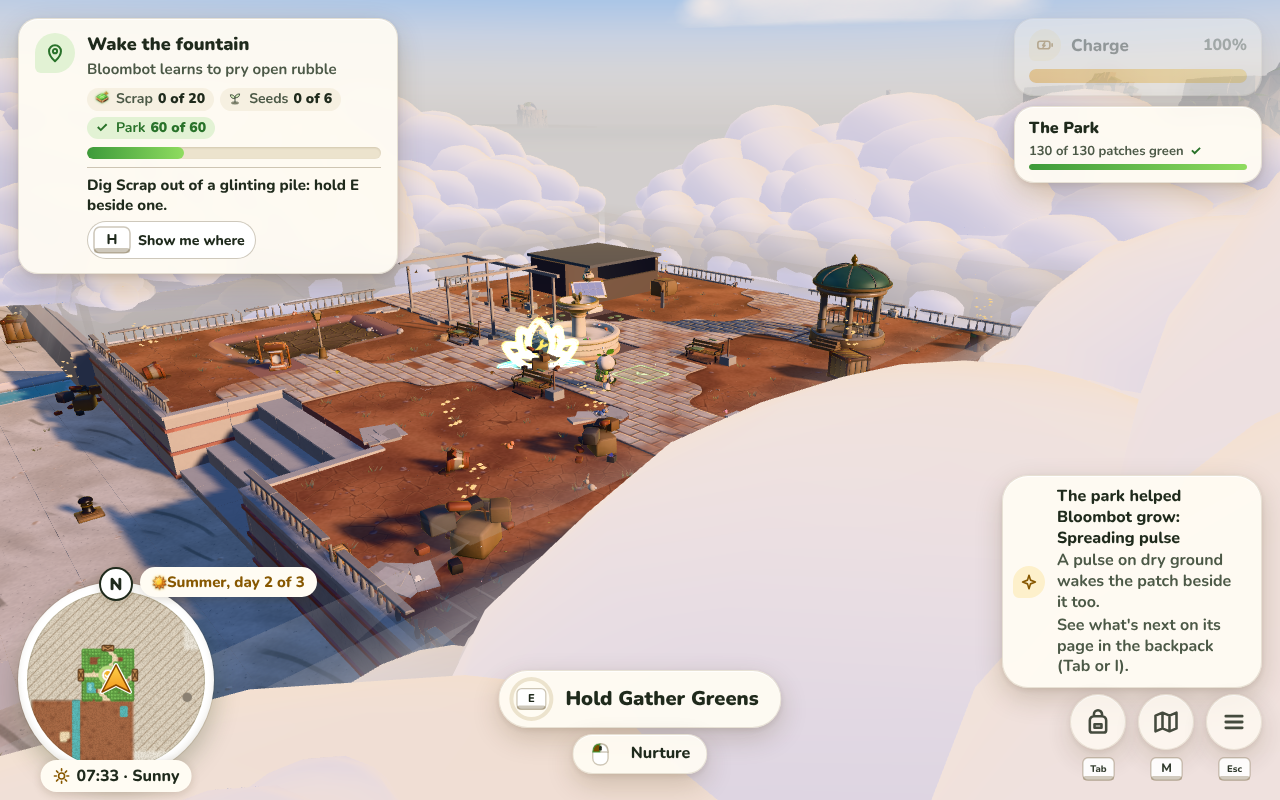
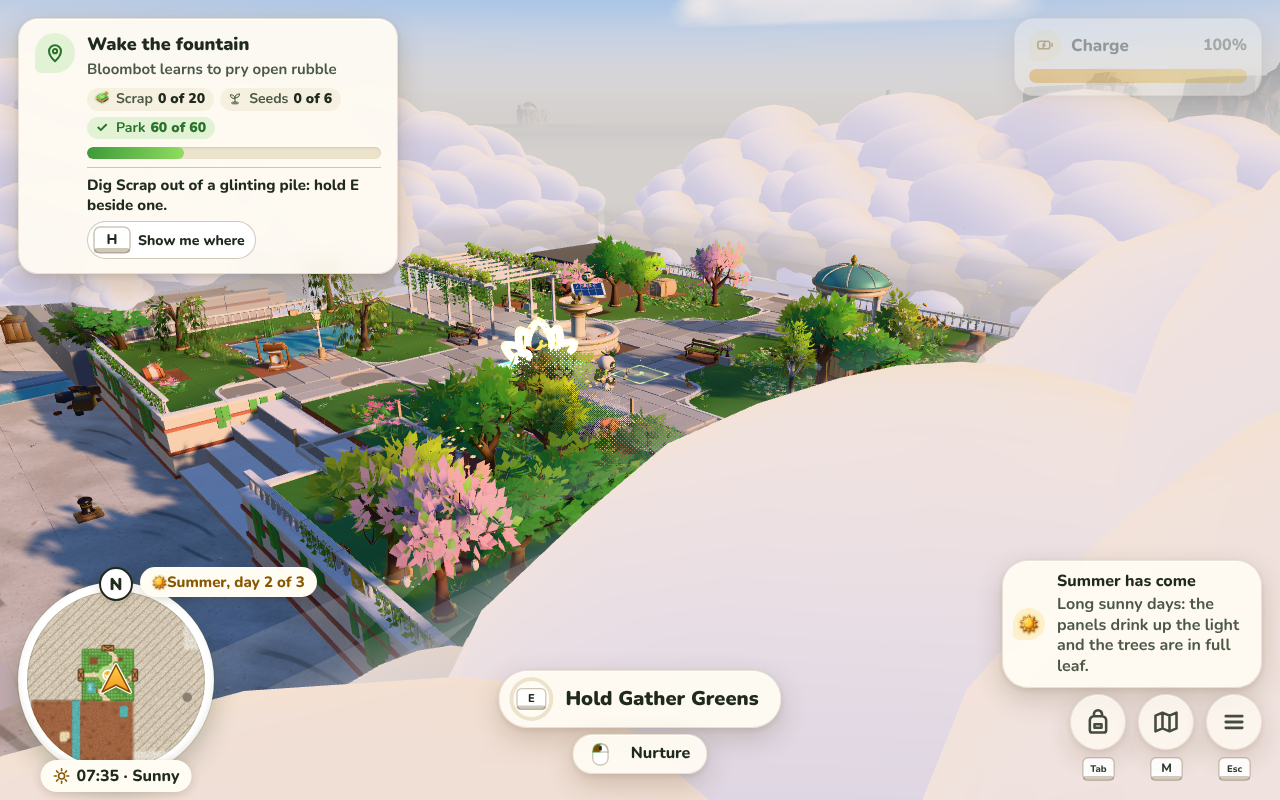
Seasons: giant trees follow the seasons, unit tests, e2e toast watch (#830)
Claude-Session: https://claude.ai/code/session_01SpBr3Rp5FNUnm3aQVHmUnd

diff --git a/tests/seasons.test.ts b/tests/seasons.test.ts
@@ -1,0 +1,344 @@
+import { describe, expect, it } from 'vitest';
+import { createInitialState } from '../src/core/GameState';
+import type { GameState } from '../src/core/types';
+import { SEASON_DAYS, SEASON_LOOK, SEASON_WEATHER_ODDS, SEASON_WORDS, SEASONS, WINTER_COZY, seasonLine, type Season } from '../src/data/seasons';
+import { DAY, DAY_SECONDS, gameDays } from '../src/data/time';
+import { WEATHER, WEATHER_KINDS } from '../src/data/weather';
+import { nextSeason, seasonOf, seasonOnDayOf } from '../src/gameplay/Seasons';
+import { Sim } from '../src/gameplay/Sim';
+import { buildGiant } from '../src/rendering/GiantTreeGen';
+import { PALETTE } from '../src/rendering/Palette';
+import { fallingLeafColour, linear, seasonLookAt, seasonShading, seasonUniforms, SeasonShading } from '../src/rendering/SeasonLook';
+import { DECIDUOUS, LEAF_CARD_VERTICES, LEAF_FLAG, SEASON_FLAG, SPECIES, buildTree, plainFlex } from '../src/rendering/TreeGen';
+import { bannedIn } from '../src/ui/words';
+
+const fresh = (seed = 7) => new Sim(createInitialState(seed));
+/** Moves the game clock on by `days` game days without running the sim (as sleeping does). */
+const skip = (sim: Sim, days: number) => {
+  sim.state.clock ??= { offset: DAY.startFraction * DAY_SECONDS };
+  sim.state.clock.offset += gameDays(days);
+};
+const reload = (sim: Sim) => new Sim(JSON.parse(JSON.stringify(sim.state)) as GameState);
+
+describe('#830: the season clock', () => {
+  it('a new garden starts on the first day of spring, year 1', () => {
+    const sim = fresh();
+    expect(sim.seasons.season()).toBe('spring');
+    expect(sim.seasons.dayOfSeason()).toBe(1);
+    expect(sim.seasons.year()).toBe(1);
+    expect(sim.state.seasons).toEqual({ startDay: 1 });
+    expect(sim.seasons.line()).toBe('Spring, day 1 of 3');
+  });
+
+  it('runs spring, summer, autumn, winter, three game days each, then a new year', () => {
+    expect(SEASONS).toEqual(['spring', 'summer', 'autumn', 'winter']);
+    expect(SEASON_DAYS).toBe(3);
+    const sim = fresh();
+    const seen: string[] = [];
+    for (let d = 0; d < 13; d++) {
+      seen.push(`${sim.seasons.season()}${sim.seasons.dayOfSeason()}`);
+      skip(sim, 1);
+    }
+    expect(seen).toEqual(['spring1', 'spring2', 'spring3', 'summer1', 'summer2', 'summer3', 'autumn1', 'autumn2', 'autumn3', 'winter1', 'winter2', 'winter3', 'spring1']);
+    expect(sim.seasons.year()).toBe(2);
+    // a year is 12 game days of 48 minutes: about ten hours of play
+    expect((SEASON_DAYS * SEASONS.length * DAY.minutes) / 60).toBeCloseTo(9.6, 5);
+  });
+
+  it('progress runs smoothly from 0 to 1 through a season, on the game clock', () => {
+    const sim = fresh();
+    const p0 = sim.seasons.progress();
+    expect(p0).toBeCloseTo(DAY.startFraction / SEASON_DAYS, 5);
+    sim.advance(60);
+    expect(sim.seasons.progress()).toBeGreaterThan(p0);
+    skip(sim, 1.5);
+    expect(sim.seasons.progress()).toBeCloseTo(p0 + 1.5 / SEASON_DAYS + 60 / DAY_SECONDS / SEASON_DAYS, 4);
+    skip(sim, 3 - 1.5 - DAY.startFraction - 60 / DAY_SECONDS - 0.001);
+    expect(sim.seasons.season()).toBe('spring');
+    expect(sim.seasons.progress()).toBeGreaterThan(0.999);
+    skip(sim, 0.002);
+    expect(sim.seasons.season()).toBe('summer');
+    expect(sim.seasons.progress()).toBeLessThan(0.001);
+  });
+
+  it('announces a new season once, on the step it turns, and never on loading', () => {
+    const sim = fresh();
+    const got: unknown[] = [];
+    sim.bus.on('season.changed', (e) => got.push(e));
+    sim.advance(1);
+    expect(got).toEqual([]);
+    skip(sim, 3);
+    sim.advance(1);
+    expect(got).toEqual([{ season: 'summer', from: 'spring', year: 1 }]);
+    sim.advance(1);
+    expect(got.length).toBe(1);
+    // loading mid-summer says nothing
+    const again = reload(sim);
+    const after: unknown[] = [];
+    again.bus.on('season.changed', (e) => after.push(e));
+    again.advance(2);
+    expect(after).toEqual([]);
+  });
+
+  it('sleeping through a season\'s last night wakes in the next season (and says so)', () => {
+    const sim = fresh();
+    sim.seasons.jumpTo('winter', 3);
+    const f = sim.clock.gameDayFraction();
+    skip(sim, 0.8 - f); // late evening
+    sim.advance(0.2);
+    const got: unknown[] = [];
+    sim.bus.on('season.changed', (e) => got.push(e));
+    expect(sim.clock.sleep()).toBe(true);
+    sim.advance(0.2);
+    expect(sim.seasons.season()).toBe('spring');
+    expect(sim.seasons.dayOfSeason()).toBe(1);
+    expect(got).toEqual([{ season: 'spring', from: 'winter', year: 2 }]);
+  });
+
+  it('saves and loads: a reload keeps the season, the day of it and its progress', () => {
+    const sim = fresh();
+    sim.seasons.jumpTo('autumn', 2);
+    sim.advance(30);
+    const before = sim.seasons.now();
+    const after = reload(sim).seasons.now();
+    expect(after).toEqual(before);
+  });
+
+  it('a garden saved before seasons starts a fresh spring on the day it first loads (and keeps it)', () => {
+    const sim = fresh();
+    skip(sim, 9.4); // game day 10
+    const old = JSON.parse(JSON.stringify(sim.state)) as GameState;
+    delete old.seasons;
+    const loaded = new Sim(old);
+    expect(loaded.clock.gameDay()).toBe(10);
+    expect(loaded.seasons.season()).toBe('spring');
+    expect(loaded.seasons.dayOfSeason()).toBe(1);
+    expect(loaded.state.seasons).toEqual({ startDay: 10 });
+    // and it stays anchored there across later loads
+    skip(loaded, 4);
+    expect(reload(loaded).seasons.line()).toBe('Summer, day 2 of 3');
+  });
+
+  it('pure helpers agree with the sim (seasonOf, seasonOnDayOf, nextSeason)', () => {
+    const sim = fresh();
+    sim.seasons.jumpTo('summer', 3);
+    expect(seasonOf(sim.state)).toEqual(sim.seasons.now());
+    const today = sim.clock.gameDay();
+    expect(seasonOnDayOf(sim.state, today)).toBe('summer');
+    expect(seasonOnDayOf(sim.state, today + 1)).toBe('autumn');
+    expect(seasonOnDayOf(sim.state, today - 3)).toBe('spring');
+    expect(seasonOnDayOf(sim.state, today - 6)).toBe('winter'); // the year before
+    expect(sim.seasons.seasonOnDay(today + 4)).toBe('winter');
+    expect(SEASONS.map(nextSeason)).toEqual(['summer', 'autumn', 'winter', 'spring']);
+    expect(sim.seasons.next()).toBe('autumn');
+    expect(sim.seasons.label()).toBe('Summer');
+  });
+
+  it('jumpTo never moves the game clock (no timer is skipped)', () => {
+    const sim = fresh();
+    const t = sim.clock.gameSeconds();
+    for (const s of SEASONS) {
+      sim.seasons.jumpTo(s, 2);
+      expect(sim.seasons.season()).toBe(s);
+      expect(sim.seasons.dayOfSeason()).toBe(2);
+      expect(sim.clock.gameSeconds()).toBe(t);
+    }
+  });
+});
+
+describe('#830: the weather follows the seasons', () => {
+  const tally = (seed: number) => {
+    const sim = fresh(seed);
+    const n: Record<Season, Record<string, number>> = { spring: {}, summer: {}, autumn: {}, winter: {} };
+    for (let day = 13; day < 13 + 12 * 60; day++) {
+      const s = sim.seasons.seasonOnDay(day);
+      const k = sim.weather.kindOn(day);
+      n[s][k] = (n[s][k] ?? 0) + 1;
+    }
+    return n;
+  };
+  const share = (n: Record<string, number>, k: string) => (n[k] ?? 0) / Object.values(n).reduce((a, b) => a + b, 0);
+
+  it('spring showers, summer sun, autumn wind, winter snow', () => {
+    const n = tally(11);
+    expect(share(n.spring, 'rain')).toBeGreaterThan(share(n.summer, 'rain'));
+    expect(share(n.spring, 'rain')).toBeGreaterThan(share(n.winter, 'rain'));
+    expect(share(n.summer, 'sunny')).toBeGreaterThan(Math.max(share(n.spring, 'sunny'), share(n.autumn, 'sunny'), share(n.winter, 'sunny')));
+    expect(share(n.autumn, 'wind')).toBeGreaterThan(Math.max(share(n.spring, 'wind'), share(n.summer, 'wind'), share(n.winter, 'wind')));
+    expect(share(n.winter, 'snow')).toBeGreaterThan(0.2);
+  });
+
+  it('snow only ever falls in winter, and winter never brings a storm', () => {
+    for (const seed of [1, 7, 42]) {
+      const n = tally(seed);
+      expect(n.spring.snow ?? 0).toBe(0);
+      expect(n.summer.snow ?? 0).toBe(0);
+      expect(n.autumn.snow ?? 0).toBe(0);
+      expect(n.winter.storm ?? 0).toBe(0);
+    }
+    for (const s of SEASONS) for (const k of WEATHER_KINDS) expect(SEASON_WEATHER_ODDS[s][k]).toBeGreaterThanOrEqual(0);
+  });
+
+  it('the forecast is still always right (tomorrow\'s kind is fixed by the seed, the day and its season)', () => {
+    const sim = fresh(5);
+    sim.seasons.jumpTo('autumn', 3);
+    const tomorrow = sim.weather.forecast();
+    skip(sim, 1);
+    sim.advance(0.2);
+    expect(sim.seasons.season()).toBe('winter');
+    expect(sim.weather.kind()).toBe(tomorrow);
+  });
+
+  it('day 1 is still sunny', () => {
+    expect(fresh().weather.kind()).toBe('sunny');
+  });
+});
+
+describe('#830: winter never punishes', () => {
+  it('snow is gentle: panels as on a cloudy day, planters never dry, nothing slowed or struck', () => {
+    const e = WEATHER.snow;
+    expect(e.solar).toBeGreaterThanOrEqual(WEATHER.cloudy.solar);
+    expect(e.planterDrying).toBe(0);
+    expect(e.bloomSpeed).toBeGreaterThanOrEqual(1);
+    expect(e.gatherBonus).toBeGreaterThanOrEqual(1);
+    expect(e.lightning).toBe(0);
+    expect(e.blowsInSalvage).toBe(false);
+    expect(e.evaporation).toBe(0);
+    expect(e.view).toBeGreaterThanOrEqual(0.8);
+  });
+
+  it('a season changes nothing but the weather\'s odds: growth and charge run the same in winter as in summer', () => {
+    const run = (season: Season) => {
+      const sim = fresh(3);
+      sim.seasons.jumpTo(season, 2);
+      sim.weather.forceForTest('cloudy', gameDays(1));
+      sim.advance(120);
+      return { charge: sim.state.charge, bloom: sim.weather.bloomSpeed(), solar: sim.clock.solarFactor() };
+    };
+    expect(run('winter')).toEqual(run('summer'));
+  });
+
+  it('Cozy Mode: winter\'s grey days never slow the panels (and only winter is changed)', () => {
+    const sim = fresh();
+    sim.seasons.jumpTo('winter', 2);
+    sim.weather.forceForTest('fog', gameDays(2));
+    expect(sim.weather.effects().solar).toBe(WEATHER.fog.solar);
+    sim.seasons.setCozyMode(true);
+    expect(sim.weather.effects().solar).toBe(WINTER_COZY.solarFloor);
+    expect(sim.weather.effects().fogFinds).toBe(true); // the rest of the day is unchanged
+    sim.weather.forceForTest('sunny', gameDays(2));
+    expect(sim.weather.effects().solar).toBe(1); // never lowered
+    sim.seasons.jumpTo('summer', 2);
+    sim.weather.forceForTest('fog', gameDays(2));
+    expect(sim.weather.effects().solar).toBe(WEATHER.fog.solar);
+  });
+});
+
+describe('#830: the words', () => {
+  it('the season line and every toast read plainly and warmly', () => {
+    for (const s of SEASONS) {
+      const w = SEASON_WORDS[s];
+      for (const t of [w.name, w.arrive, w.detail, seasonLine(s, 2)]) {
+        expect(bannedIn(t), t).toEqual([]);
+        expect(t).not.toMatch(/[{}]|\b(click|tap)\b/i);
+      }
+    }
+    expect(seasonLine('autumn', 2)).toBe('Autumn, day 2 of 3');
+  });
+});
+
+describe('#830: the look', () => {
+  it('summer is the world as it was: no tint, blossom, autumn, bare branches or frost', () => {
+    const l = seasonLookAt('summer', 0.3);
+    expect([l.grass, l.autumn, l.bare, l.blossom, l.frost]).toEqual([0, 0, 0, 0, 0]);
+    expect(l.leafFall).toBe(1);
+  });
+
+  it('each season shows its own sign mid-season', () => {
+    expect(seasonLookAt('spring', 0.4).blossom).toBeGreaterThan(0.3);
+    expect(seasonLookAt('autumn', 0.4).autumn).toBeGreaterThan(0.6);
+    expect(seasonLookAt('autumn', 0.4).leafFall).toBeGreaterThan(2);
+    const w = seasonLookAt('winter', 0.4);
+    expect(w.bare).toBeGreaterThan(0.7);
+    expect(w.frost).toBeGreaterThan(0.2);
+    expect(w.frost).toBeLessThan(0.7); // gentle, never a white-out
+  });
+
+  it('eases from one season into the next with no jump at the turn', () => {
+    for (let i = 0; i < SEASONS.length; i++) {
+      const a = seasonLookAt(SEASONS[i], 0.99999);
+      const b = seasonLookAt(SEASONS[(i + 1) % SEASONS.length], 0);
+      for (const k of ['grass', 'autumn', 'bare', 'blossom', 'frost', 'leafFall'] as const) expect(Math.abs(a[k] - b[k]), `${SEASONS[i]} ${k}`).toBeLessThan(1e-3);
+      for (let c = 0; c < 3; c++) expect(Math.abs(a.grassColour[c] - b.grassColour[c])).toBeLessThan(1e-3);
+    }
+    // and holds still through most of a season
+    expect(seasonLookAt('autumn', 0.1)).toEqual(seasonLookAt('autumn', 0.6));
+  });
+
+  it('a winter dawn is frostier, and fresh snow adds a little more', () => {
+    const noon = seasonLookAt('winter', 0.4, 0.33);
+    expect(seasonLookAt('winter', 0.4, 0.01).frost).toBeGreaterThan(noon.frost);
+    expect(seasonLookAt('winter', 0.4, 0.33, true).frost).toBeGreaterThan(noon.frost);
+    expect(seasonLookAt('summer', 0.4, 0.01, true).frost).toBe(0); // never outside winter
+  });
+
+  it('colours come from the palette, as uniforms every season material reads', () => {
+    const u = seasonUniforms(seasonLookAt('winter', 0.4));
+    expect(u.uSeasonFrost).toEqual(linear(PALETTE.season.frost));
+    expect(u.uSeasonAut1).toEqual(linear(PALETTE.season.autumn[1]));
+    expect(u.uSeasonBlos0).toEqual(linear(PALETTE.season.blossom[0]));
+    expect(u.uSeasonA[2]).toBeCloseTo(SEASON_LOOK.winter.bare, 5);
+    const sh = new SeasonShading();
+    const got: Record<string, unknown> = {};
+    sh.register({ setParameter: (k, v) => (got[k] = v) });
+    expect(sh.set(seasonLookAt('autumn', 0.4))).toBe(true);
+    expect(sh.set(seasonLookAt('autumn', 0.5))).toBe(false); // unchanged: no work
+    expect(got.uSeasonA).toEqual(seasonUniforms(seasonLookAt('autumn', 0.4)).uSeasonA);
+    expect(seasonShading).toBeInstanceOf(SeasonShading);
+  });
+
+  it('falling leaves: petals in spring, gold and red in autumn, the tree\'s own green in summer, evergreens unchanged', () => {
+    const own: [number, number, number] = [20, 90, 10];
+    const bytes = (hex: string) => linear(hex).map((v) => Math.round(v * 255));
+    expect(fallingLeafColour(seasonLookAt('summer', 0.4), own, true, 0.1, 0.1)).toEqual(own);
+    expect(fallingLeafColour(seasonLookAt('spring', 0.4), own, true, 0.05, 0.1)).toEqual(bytes(PALETTE.season.blossom[0]));
+    expect(PALETTE.season.autumn.map(bytes)).toContainEqual(fallingLeafColour(seasonLookAt('autumn', 0.4), own, true, 0.3, 0.5));
+    expect(fallingLeafColour(seasonLookAt('winter', 0.4), own, true, 0.1, 0.5)).toEqual(bytes(PALETTE.season.withered));
+    expect(fallingLeafColour(seasonLookAt('autumn', 0.4), own, false, 0.1, 0.5)).toEqual(own);
+  });
+});
+
+describe('#830: which leaves follow the seasons', () => {
+  const flagged = (pos: Float32Array) => {
+    let n = 0;
+    for (let i = 3; i < pos.length; i += 4) if (pos[i] >= SEASON_FLAG) n++;
+    return n;
+  };
+
+  it('every deciduous tree\'s leaf cards carry SEASON_FLAG; the Spire Pine\'s never do', () => {
+    for (const sp of SPECIES) {
+      const g = buildTree(sp, 4, 1, 1);
+      if (!DECIDUOUS[sp]) {
+        expect(flagged(g.pos), sp).toBe(0);
+        continue;
+      }
+      expect(g.leafStarts!.length, sp).toBeGreaterThan(0);
+      for (const s of g.leafStarts!) for (let j = 0; j < LEAF_CARD_VERTICES; j++) expect(g.pos[(s + j) * 4 + 3], sp).toBeGreaterThanOrEqual(SEASON_FLAG);
+      // and the trunk does not
+      expect(g.pos[3], `${sp} root`).toBeLessThan(LEAF_FLAG);
+    }
+    expect(DECIDUOUS.pine).toBe(false);
+  });
+
+  it('far trees and giant trees follow the seasons too', () => {
+    expect(flagged(buildTree('oak', 3, 2, 0).pos)).toBeGreaterThan(0);
+    expect(flagged(buildGiant(3, 1, 1).pos)).toBeGreaterThan(0);
+  });
+
+  it('plainFlex takes both flags off, leaving the wind\'s own flex', () => {
+    expect(plainFlex(0.7)).toBeCloseTo(0.7, 6);
+    expect(plainFlex(0.7 + LEAF_FLAG)).toBeCloseTo(0.7, 6);
+    expect(plainFlex(0.7 + SEASON_FLAG)).toBeCloseTo(0.7, 6);
+    expect(plainFlex(0.7 + LEAF_FLAG + SEASON_FLAG)).toBeCloseTo(0.7, 6);
+  });
+});

diff --git a/src/rendering/GiantTreeGen.ts b/src/rendering/GiantTreeGen.ts
@@ -12,7 +12,7 @@
  * Green (PALETTE.leaf.young / grown) as they mature, and Radiant adds sun-berries and moss-jar lanterns under the canopy.
  */
 import { PALETTE } from './Palette';
-import { Buf, LEAVES, hex, hsl, limb, lerp, mix, norm, puff, rng, scaleC, spray, tube, type C, type Crown, type LimbOpts, type Lod, type Palette, type Tip, type TreeGeo, type V } from './TreeGen';
+import { Buf, LEAVES, markSeasonLeaves, hex, hsl, limb, lerp, mix, norm, puff, rng, scaleC, spray, tube, type C, type Crown, type LimbOpts, type Lod, type Palette, type Tip, type TreeGeo, type V } from './TreeGen';
 
 export type GiantStage = 0 | 1 | 2 | 3 | 4;
 export const GIANT_VARIANTS = 6;
@@ -142,7 +142,8 @@ export function buildGiant(stage: GiantStage, variant: number, lod: Lod = 1): Gi
     });
     if (stage === 4 && lod > 0) radiantGiant(B, R, crown);
   }
-  const geo = squash(B.done() as GiantGeo, TALL);
+  // #830: a giant is a broadleaf: it blossoms, turns gold and red, and stands bare in winter like the others
+  const geo = markSeasonLeaves(squash(B.done() as GiantGeo, TALL));
   geo.bounds = measure(geo);
   return geo;
 }

diff --git a/src/rendering/TreeGen.ts b/src/rendering/TreeGen.ts
@@ -217,7 +217,11 @@ export const DECIDUOUS: Record<Species, boolean> = { oak: true, cherry: true, bi
 
 /** #830: marks a deciduous tree's leaves (cards and leafy clumps) with SEASON_FLAG. */
 function seasonal(g: TreeGeo, sp: Species): TreeGeo {
-  if (!DECIDUOUS[sp]) return g;
+  return DECIDUOUS[sp] ? markSeasonLeaves(g) : g;
+}
+
+/** #830: marks every leaf card and leafy clump of a geometry with SEASON_FLAG (giant trees use it too). */
+export function markSeasonLeaves<T extends TreeGeo>(g: T): T {
   const n = g.pos.length / 4;
   const mark = new Uint8Array(n);
   for (const s of g.leafStarts ?? []) for (let j = 0; j < LEAF_CARD_VERTICES && s + j < n; j++) mark[s + j] = 1;

diff --git a/vite.config.ts b/vite.config.ts
@@ -78,7 +78,7 @@ const QUICK = [
   'tree-placement',
   'p7-terrain', 'tile-markers',
   // #787: the regions' works (power, water, drones) and the unlock-order walk
-  'region-works',
+  'region-works', 'seasons',
 ].map((name) => `tests/${name}.test.ts`);
 
 export default defineConfig(({ mode }) => ({
